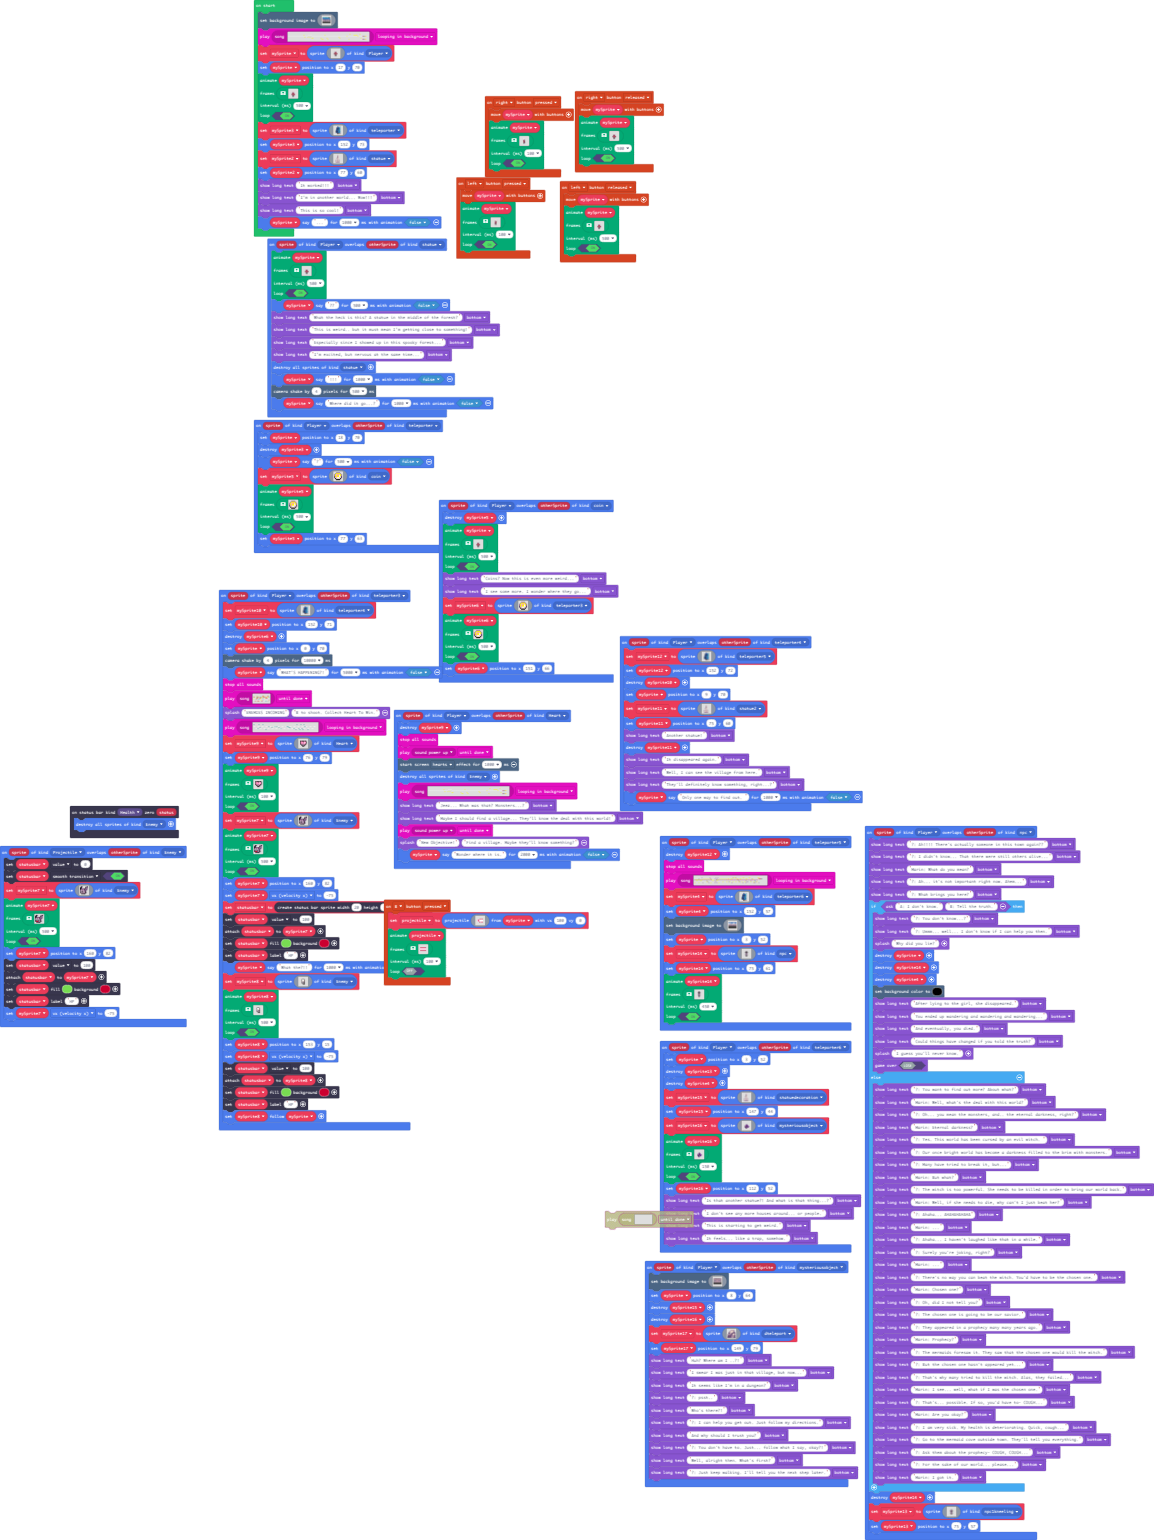
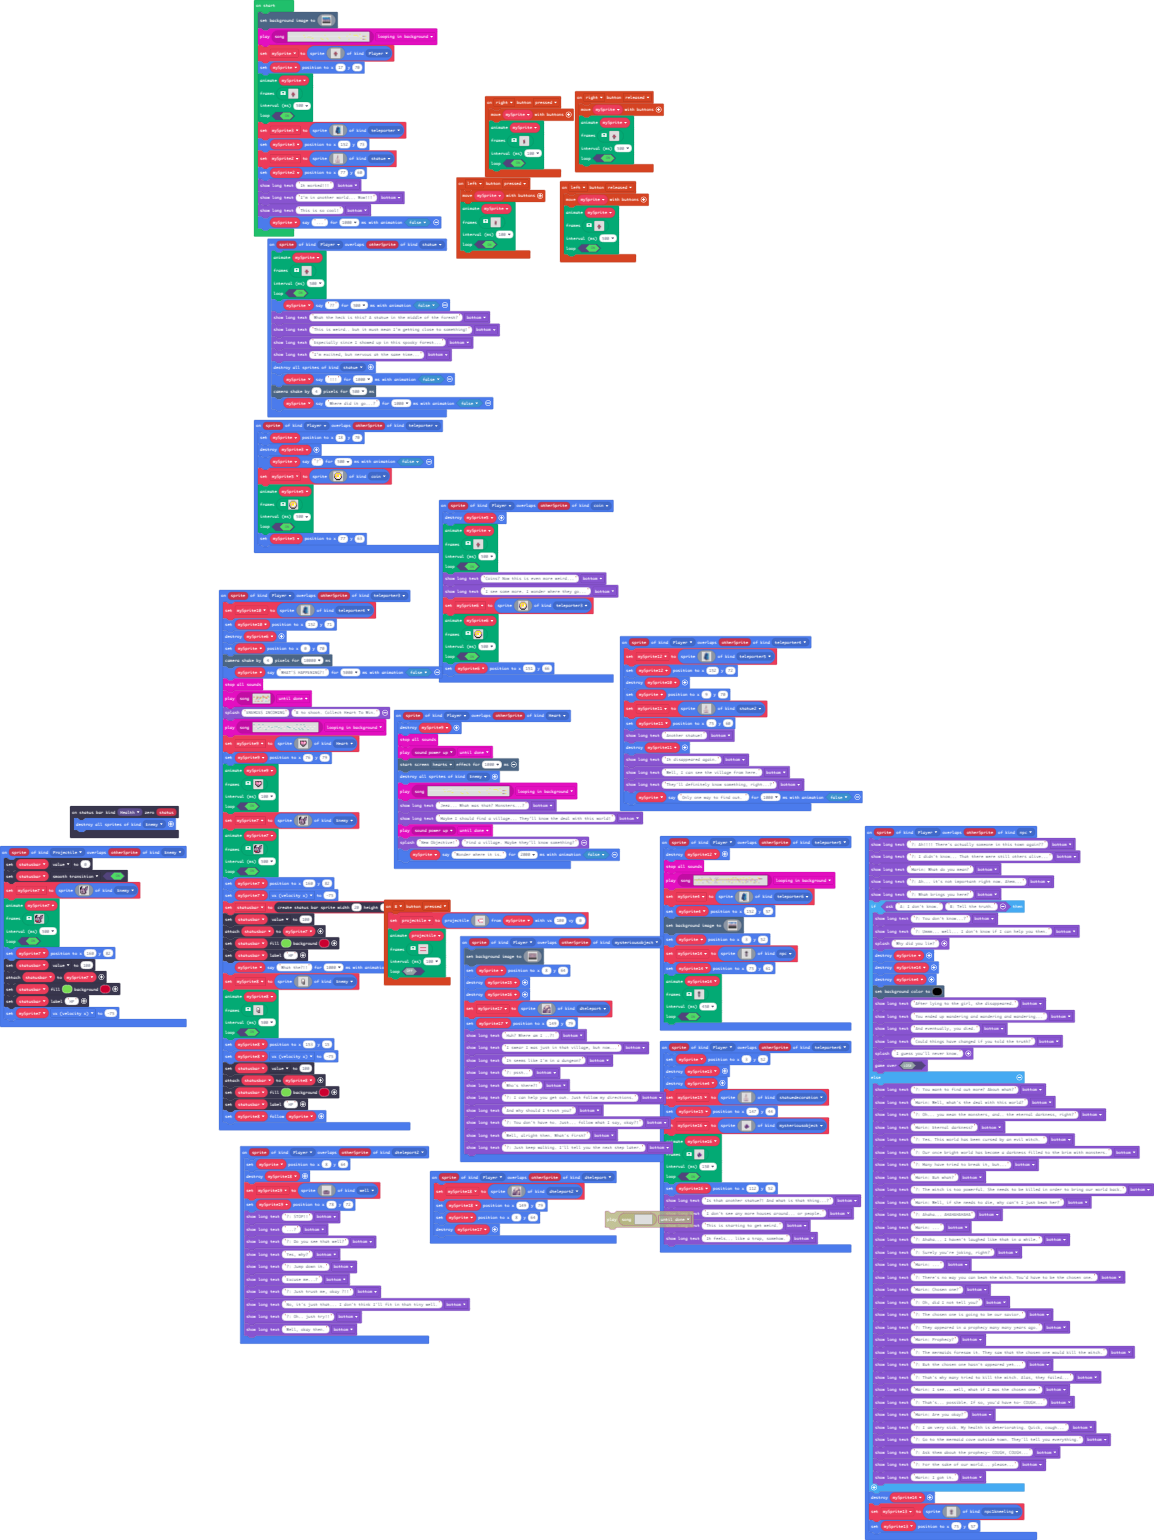
iʻve gotten like half of what i did yesterday done

Changed region(s): [[0.1872, 0.5922, 0.5927, 0.8727], [0.5615, 0.8104, 0.7487, 0.9662]]

diff --git a/main.ts b/main.ts
@@ -15,7 +15,32 @@ namespace SpriteKind {
     export const statuedecoration = SpriteKind.create()
     export const mysteriousobject = SpriteKind.create()
     export const dteleport = SpriteKind.create()
+    export const dteleport2 = SpriteKind.create()
+    export const well = SpriteKind.create()
 }
+sprites.onOverlap(SpriteKind.Player, SpriteKind.dteleport, function (sprite, otherSprite) {
+    mySprite18 = sprites.create(img`
+        . . . . . . . . b b b b b . . . 
+        . . . . . . b b d d d d b b . . 
+        . . . . . b d d d d d d d c . . 
+        . . . . c d d d d d d d d c . . 
+        . . . c b d d d d d d d b c c . 
+        . . . c b b d d d d b c c c c . 
+        . . c c d b b b c c c c c c c . 
+        . . c c c d d d d c c d d d c c 
+        . c d b c c b b c c d d d d d c 
+        . c b d d b b b c c d d d d d c 
+        . c c b b b b c b c b d d d b c 
+        c b b c c c c c b b b b b c c c 
+        c c b b c c c c c d d d d d b c 
+        c c c c c c b b b b b c c c c c 
+        c c c c c c c b b b b b c c c c 
+        c c c c c c c c b b b b b c c c 
+        `, SpriteKind.dteleport2)
+    mySprite18.setPosition(149, 79)
+    mySprite.setPosition(8, 64)
+    sprites.destroy(mySprite17)
+})
 sprites.onOverlap(SpriteKind.Player, SpriteKind.npc, function (sprite, otherSprite) {
     game.showLongText("?: Ah!!!! Thereʻs actually someone in this town again??", DialogLayout.Bottom)
     game.showLongText("?: I didnʻt know... That there were still others alive...", DialogLayout.Bottom)
@@ -566,6 +591,55 @@ controller.left.onEvent(ControllerButtonEvent.Released, function () {
     500,
     true
     )
+})
+sprites.onOverlap(SpriteKind.Player, SpriteKind.dteleport2, function (sprite, otherSprite) {
+    mySprite.setPosition(8, 64)
+    sprites.destroy(mySprite18)
+    mySprite19 = sprites.create(img`
+        ................................
+        ................................
+        ................................
+        ................................
+        ................................
+        ................................
+        ................................
+        ................................
+        ................................
+        ................................
+        ................................
+        ................................
+        ................................
+        ................................
+        ................................
+        ................................
+        ................................
+        ......ccccccccccccccccc.........
+        ....cccccffffffffffffcccc.......
+        ...ccbbccccfffffffffcccbccc.....
+        ...cbbbcbbbccccccccbbbbbbbcc....
+        ..ccccccbbbbbbcbbbbbbbbbbbbc....
+        ..cbbccbbbbbbbcbbbbbbbbbcccc....
+        ..cbbbcccccbbbcbbbbbbbcccbbc....
+        ..ccbbbbbccccccbbbccccbbbbbc....
+        ...cbbbbbcbbbbcccccbbcbbbbc.....
+        ...cbbbbbcbbbbbbbbbbbcbbbbc.....
+        ...cbbbbbcbbbbbbbbbbbcbbbcc.....
+        ...ccccbbcbbbbbbbbbbbcbcccc.....
+        ...cbbbcccccccccccccccccbcc.....
+        ...ccbbbbbbbbbbbbbbbbbbbcc......
+        ....ccccccccccccccccccccc.......
+        `, SpriteKind.well)
+    mySprite19.setPosition(78, 72)
+    game.showLongText("?: STOP!!", DialogLayout.Bottom)
+    game.showLongText("...?", DialogLayout.Bottom)
+    game.showLongText("?: Do you see that well?", DialogLayout.Bottom)
+    game.showLongText("Yes, why?", DialogLayout.Bottom)
+    game.showLongText("?: Jump down it.", DialogLayout.Bottom)
+    game.showLongText("Excuse me...?", DialogLayout.Bottom)
+    game.showLongText("?: Just trust me, okay ?!!", DialogLayout.Bottom)
+    game.showLongText("No, itʻs just that... I donʻt think Iʻll fit in that tiny well.", DialogLayout.Bottom)
+    game.showLongText("?: Oh.. just try!!", DialogLayout.Bottom)
+    game.showLongText("Well, okay then.", DialogLayout.Bottom)
 })
 statusbars.onZero(StatusBarKind.Health, function (status) {
     sprites.destroyAllSpritesOfKind(SpriteKind.Enemy)
@@ -1377,14 +1451,16 @@ let mySprite10: Sprite = null
 let mySprite6: Sprite = null
 let mySprite5: Sprite = null
 let mySprite12: Sprite = null
+let mySprite19: Sprite = null
 let mySprite9: Sprite = null
-let mySprite17: Sprite = null
 let mySprite16: Sprite = null
 let mySprite15: Sprite = null
 let projectile: Sprite = null
 let mySprite13: Sprite = null
 let mySprite4: Sprite = null
 let mySprite14: Sprite = null
+let mySprite17: Sprite = null
+let mySprite18: Sprite = null
 let mySprite3: Sprite = null
 let mySprite: Sprite = null
 scene.setBackgroundImage(assets.image`Dark_woods`)
